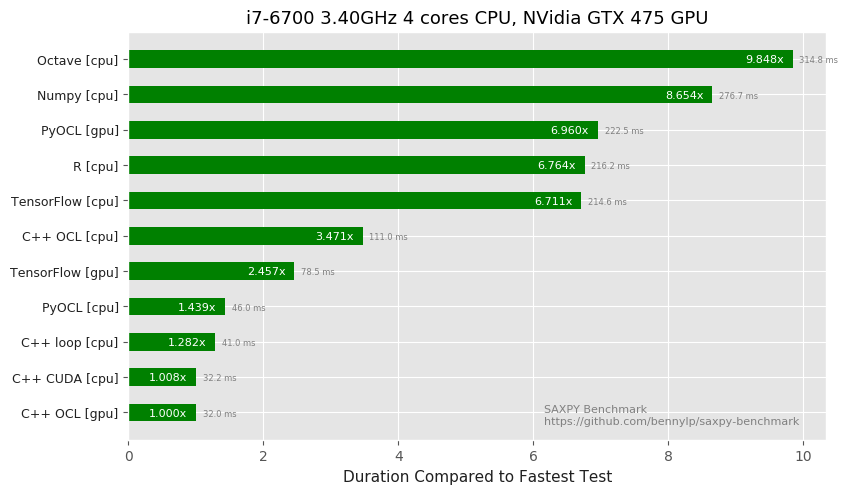
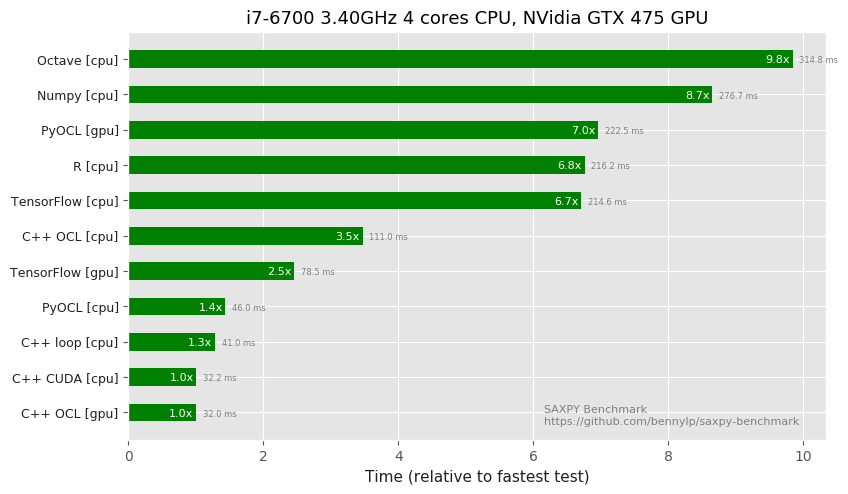
Added OpenMP and Java

diff --git a/results/create_charts.py b/results/create_charts.py
@@ -12,8 +12,9 @@ known_columns = set(['Python loop [cpu]', 'Numpy [cpu]',
                      'C++ CUDA [cpu]',
                      'C++ OCL [cpu]', 'C++ OCL [gpu]',
                      'PyOCL [cpu]', 'PyOCL [gpu]',
-                     'TensorFlow [cpu]', 'TensorFlow [gpu]',
-                     'Octave [cpu]', 'R [cpu]'])
+                     'Py TensorFlow [cpu]', 'Py TensorFlow [gpu]',
+                     'Octave [cpu]', 'R [cpu]',
+                     'Java loop [cpu]'])
 
 def create_chart(spec, output_md, use_rel=True):
     print('Processing {} "{}"'.format(spec['data'], spec['title']))
@@ -41,7 +42,8 @@ def create_chart(spec, output_md, use_rel=True):
     m = df.mean().sort_values(ascending=False)
     for idx in m.index:
         if idx not in known_columns:
-            sys.stderr.write("Error: unrecognized column name '{}'. Standard names are required.\n".format(idx))
+            sys.stderr.write("Error: unrecognized column name '{}'. Standard names are required, choose one of:\n - {}\n".format(
+                                idx, '\n - '.join(sorted(known_columns))))
             sys.exit(1)
     rel = m / m[-1]
     std = df.std()
@@ -92,7 +94,7 @@ def create_chart(spec, output_md, use_rel=True):
 
     for i, v in enumerate(y):
         # ax.text(v, i, '%.3fx' % v)
-        ax.text(max(0, v - 0.7), y_pos[i] + 0.03, '%.3fx' % v, fontdict={'size': 8}, color='w')
+        ax.text(max(0, v - 0.4), y_pos[i] + 0.03, '%.1fx' % v, fontdict={'size': 8}, color='w')
         ax.text(v + 0.1, y_pos[i] + 0.03, '%.1f ms' % m[i], fontdict={'size': 6}, color='grey')
 
     ax.text(y[0] * 5 / 8, y_pos[-1], 'SAXPY Benchmark',
@@ -103,7 +105,7 @@ def create_chart(spec, output_md, use_rel=True):
     ax.set_yticks(y_pos)
     ax.set_yticklabels(tests, fontdict={'size': 9}, color="#202020")
     ax.invert_yaxis()  # labels read top-to-bottom
-    ax.set_xlabel('Duration Compared to Fastest Test', fontdict={'size': 11}, color="#202020")
+    ax.set_xlabel('Time (relative to fastest test)', fontdict={'size': 11}, color="#202020")
     ax.set_title(spec['title'], fontdict={'size': 13})
 
     ax.grid(color='w')

diff --git a/saxpy_cpu.cpp b/saxpy_cpu.cpp
@@ -1,38 +1,25 @@
-#include <iostream>
-#include <math.h>
-
 #include "saxpy.h"
-
-static void saxpy(size_t n, real_t a, real_t *x, real_t *y)
-{
-  for (size_t i = 0; i < n; ++i) {
-      y[i] += a * x[i];
-  }
-}
 
 int main(void)
 {
-    real_t *x = new real_t[N];
-    real_t *y = new real_t[N];
+   std::cout << "N: " << N << std::endl;
+   float *x = new float[N], *y = new float[N];
 
-    std::cout << "N: " << N << std::endl;
+   for (size_t i = 0; i < N; i++) {
+      x[i] = XVAL;
+      y[i] = YVAL;
+   }
 
-    for (size_t i = 0; i < N; i++) {
-	    x[i] = XVAL;
-	    y[i] = YVAL;
-    }
+   saxpy_timer t;
+   for (size_t i = 0; i < N; ++i) {
+      y[i] += AVAL * x[i];
+   }
 
-    saxpy_timer t;
+   double elapsed = t.elapsed_msec();
+   std::cout << "Elapsed: " << elapsed << " ms" << std::endl;
+   saxpy_verify(y);
 
-    saxpy(N, AVAL, x, y);
-
-    double elapsed = t.elapsed_msec();
-
-    saxpy_verify(y);
-    std::cout << "Elapsed: " << elapsed << " ms" << std::endl;
-
-    delete [] x;
-    delete [] y;
-
-    return 0;
+   delete[] x;
+   delete[] y;
+   return 0;
 }

diff --git a/SaxpyLoop.java b/SaxpyLoop.java
@@ -1,0 +1,31 @@
+public class SaxpyLoop {
+   public static void main(String []args) {
+	   int N = 1 << 26;
+	   float XVAL = (float)(10 * Math.random());
+	   float YVAL = (float)(10 * Math.random());
+	   float AVAL = (float)(10 * Math.random());
+	   float[] x = new float[N];
+	   float[] y = new float[N];
+
+	   System.out.println("N: " + N);
+	   
+	   for (int i=0; i<N; i++) {
+		   x[i] = XVAL;
+		   y[i] = YVAL;
+	   }
+	   
+	   double startTime = System.nanoTime();
+	   for (int i=0; i<N; i++) {
+		   y[i] += AVAL * x[i];
+	   }
+	   double endTime = System.nanoTime();
+	   System.out.println("Elapsed: " + (endTime - startTime) / 1000000.0 + " ms");
+	   
+	   float error = 0;
+	   for (int i=0; i<N; i++) {
+		   error += Math.abs(y[i] - (YVAL + AVAL * XVAL));
+	   }
+	   
+	   System.out.println("Error: " + error);
+   }
+}

diff --git a/saxpy_omp.cpp b/saxpy_omp.cpp
@@ -1,0 +1,32 @@
+#include "saxpy.h"
+#include <omp.h>
+
+int main() {
+   float *x = new float[N], *y = new float[N];
+
+   for (int i = 0; i < N; ++i) {
+      x[i] = XVAL;
+      y[i] = YVAL;
+   }
+
+   std::cout << "N: " << N << std::endl;
+
+   saxpy_timer timer;
+   int g_num_threads = omp_get_num_threads();
+#pragma omp parallel
+   {
+      int num_threads = g_num_threads = omp_get_num_threads();
+      for (int i=omp_get_thread_num(); i<N; i+=num_threads)
+         y[i] += AVAL * x[i];
+   }
+
+   auto elapsed = timer.elapsed_msec();
+   std::cout << "Elapsed: " << elapsed << " ms\n";
+   std::cout << "Number of threads: " << g_num_threads << std::endl;
+
+   saxpy_verify(y);
+   delete[] x;
+   delete[] y;
+   return 0;
+}
+

diff --git a/saxpy_ocl1.cpp b/saxpy_ocl1.cpp
@@ -124,7 +124,8 @@ int main(int argc, const char *argv[])
       queue.enqueueNDRangeKernel(kernel, cl::NullRange, cl::NDRange(N));
       queue.finish();
 #endif
-      std::cout << "Elapsed: " << timer.elapsed_msec() << " ms\n";
+      double elapsed = timer.elapsed_msec();
+      std::cout << "Elapsed: " << elapsed << " ms\n";
 
       queue.enqueueReadBuffer(dev_y, CL_TRUE, 0, N * sizeof(float), host_y);
       saxpy_verify(host_y);

diff --git a/saxpy.h b/saxpy.h
@@ -1,11 +1,11 @@
 #include <iostream>
+#include <cstdlib>
 #include <cmath>
 
 const unsigned N = (1 << 26);
-//const unsigned N = (1 << 5);
-const unsigned XVAL = 2.0f;
-const unsigned YVAL = 1.0f;
-const unsigned AVAL = 3.0f;
+const float XVAL = rand() % 1000000;
+const float YVAL = rand() % 1000000;
+const float AVAL = rand() % 1000000;
 
 typedef float real_t;
 

diff --git a/README.md b/README.md
@@ -7,15 +7,17 @@ SAXPY (Single Precision A * X Plus Y) is basically:
 ```
 
 This repository contains several implementations of SAXPY such as:
+ - naive C++ loop [[saxpy_cpu.cpp](saxpy_cpu.cpp)]
+ - naive Java loop [[SaxpyLoop.java](SaxpyLoop.java)]
  - naive Python loop [[saxpy_loop.py](saxpy_loop.py)]
  - Python Numpy [[saxpy_numpy.py](saxpy_numpy.py)]
  - Octave [[saxpy.m](saxpy.m)]
  - R [[saxpy.R](saxpy.R)]
- - naive C++ loop [[saxpy_cpu.cpp](saxpy_cpu.cpp)]
  - TensorFlow (CPU and GPU) [[saxpy_tf.py](saxpy_tf.py)]
  - C++ CUDA (GPU) [[saxpy_cuda.cu](saxpy_cuda.cu)]
  - OpenCL (CPU and GPU) [[saxpy_ocl1.cpp](saxpy_ocl1.cpp)] 
  - PyOpenCL (CPU and GPU) [[saxpy_pyocl.py](saxpy_pyocl.py)]
+ - C++ OpenMP [[saxpy_omp.cpp](saxpy_omp.cpp)]
 
 Unless noted differently, we use the best mean to do the job on each platform,
 e.g. vectorization on Numpy, R, and Octave.
@@ -375,7 +377,6 @@ and visualization tools, with syntax largely compatible with Matlab.
 It's very popular for prototyping machine learning models because of its array accessing syntax
 cleanliness and for its speed too, some say. So let's put it through its paces.
 
-
 Similar to Numpy, implementing SAXPY as vectorized computation is trivial. In fact this is the
 whole source code ([saxpy.m](saxpy.m)):
 
@@ -394,6 +395,12 @@ toc
 
 answer = YVAL + AVAL * XVAL;
 error = sum(abs(y - answer))
+```
+
+### Running
+
+```
+$ octave saxpy.m
 ```
 
 # R
@@ -426,3 +433,24 @@ cat("Error:", error, "\n")
 ```
 
 For the benchmark, run `Rscript` with `--arch x64` argument.
+
+# Naive Java Loop
+
+Plain Java loop:
+
+```java
+   for (int i=0; i<N; i++) {
+       y[i] += AVAL * x[i];
+   }
+```
+
+#### Configuring and Building
+
+Edit the Makefile and include `SaxpyLoop.class` in `TARGET`, then run `make`.
+
+Alternatively just run `javac SaxpyLoop.java` in command prompt.
+ 
+#### Running
+
+Just run `java SaxpyLoop`.
+

diff --git a/results/README.md b/results/README.md
@@ -10,18 +10,19 @@ file. Feel free to submit a result:
 When creating a CSV, please standardize the column names to the following, otherwise
 the CSV will be rejected by `create_charts.py`. The names are standardized in case we want to do
 some statistics with them in the future:
-- PyOCL [gpu]
-- Numpy [cpu]
-- PyOCL [cpu]
-- TensorFlow [cpu]
+- Java loop [cpu]
 - R [cpu]
-- TensorFlow [gpu]
-- Python loop [cpu]
-- C++ OCL [gpu]
-- Octave [cpu]
-- C++ CUDA [cpu]
 - C++ OCL [cpu]
+- PyOCL [cpu]
+- Python loop [cpu]
+- C++ CUDA [cpu]
 - C++ loop [cpu]
+- PyOCL [gpu]
+- TensorFlow [gpu]
+- Octave [cpu]
+- Numpy [cpu]
+- TensorFlow [cpu]
+- C++ OCL [gpu]
 
 
 
@@ -93,17 +94,23 @@ Submitted by Benny Prijono on 2017-11-14
 | OS | OS X 10.11.14 |
 | GPU | on board Intel Iris |
 | OpenCL | preinstalled (XCode 5.1.1) |
+| Python | 3.5.2 |
+| TensorFlow | 1.0.1 |
+| Octave | 3.8.0 |
 
 
  ### Result Details
 
 | Test   | Mean Time (ms) | StdDev (ms) | Time (rel)
 |--------| --------: | --------: | --------: |
-| Python loop [cpu] | 20491.674 | 2353.082 | 429.93x |
-| Numpy [cpu] | 448.097 | 14.627 | 9.40x |
-| C++ OCL [gpu] | 56.174 | 1.138 | 1.18x |
-| C++ loop [cpu] | 50.127 | 2.145 | 1.05x |
-| C++ OCL [cpu] | 47.663 | 0.936 | 1.00x |
+| Python loop [cpu] | 20491.674 | 2353.082 | 444.43x |
+| Numpy [cpu] | 448.097 | 14.627 | 9.72x |
+| Octave [cpu] | 424.165 | 13.562 | 9.20x |
+| TensorFlow [cpu] | 307.726 | 4.436 | 6.67x |
+| C++ OCL [gpu] | 54.344 | 0.318 | 1.18x |
+| Java loop [cpu] | 54.112 | 1.436 | 1.17x |
+| C++ loop [cpu] | 46.142 | 0.119 | 1.00x |
+| C++ OCL [cpu] | 46.108 | 0.079 | 1.00x |
 
 
 ### Result
@@ -113,6 +120,6 @@ Submitted by Benny Prijono on 2017-11-14
 
 ### Notes
 
-- **outlier "Python loop [cpu]" is removed from the chart because it is 429x slower**
+- **outlier "Python loop [cpu]" is removed from the chart because it is 444x slower**
 
 
